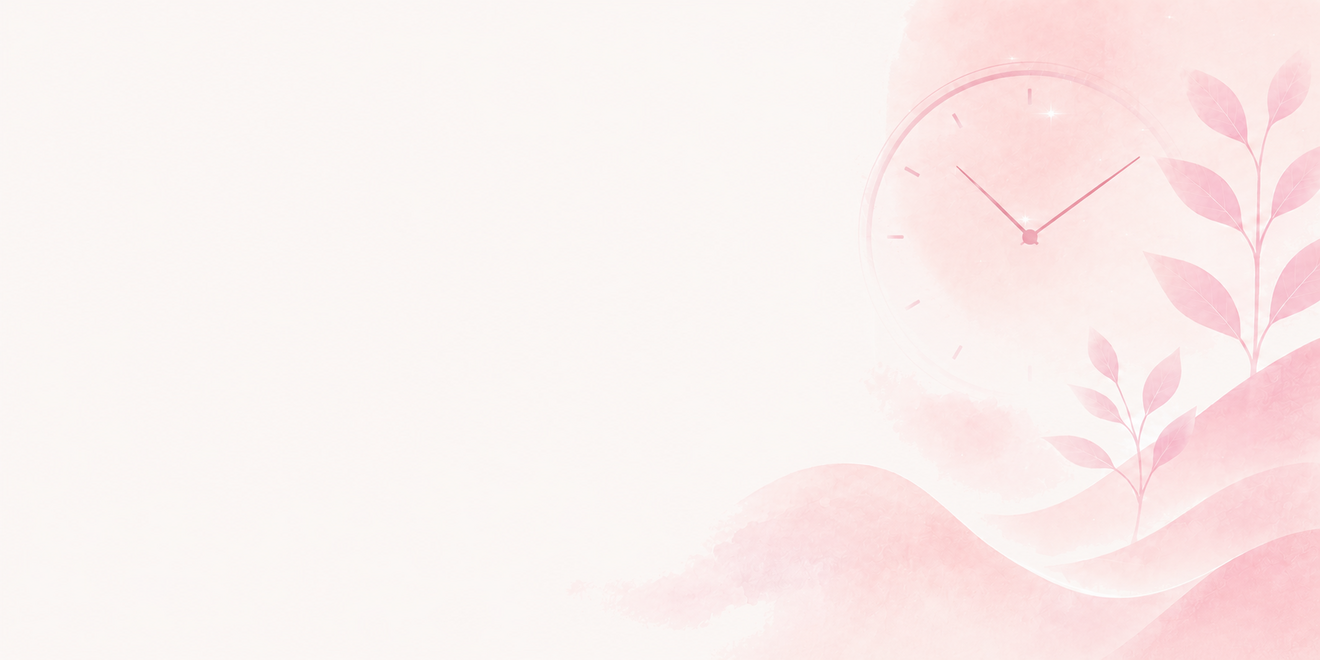
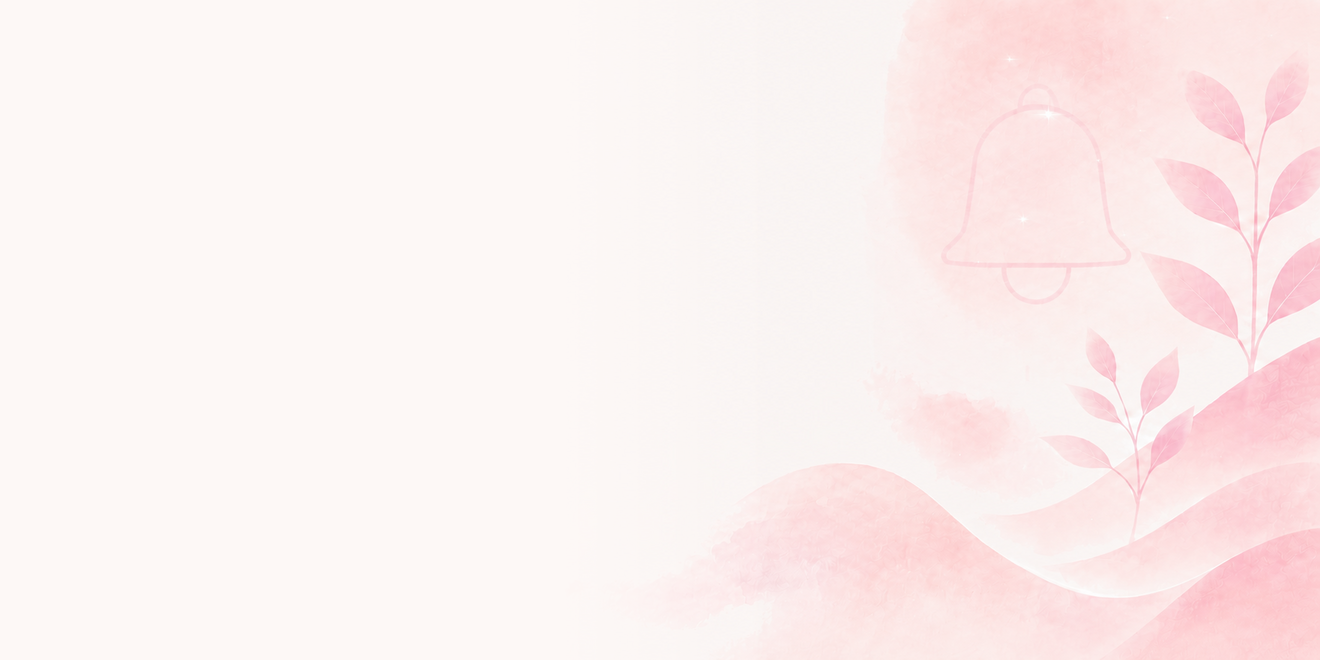
Cabezal propio por apartado y pestaña activa en las subpantallas
Cabezales:
- Cada apartado de Profile estrena el suyo, con el icono de la sección
  dibujado a línea fina dentro de la acuarela: notificación, áreas, voz
  de Aura, idioma, historial, microhábitos, mi ciclo y contraseña.
- Mis áreas deja de usar arte prestado, así que mueren los huérfanos
  (my_circle_hero.jpg, directory_hero.png).
- Apoyo y Mi círculo se quedan con los suyos de antes (teal y rosa, sin
  icono), por decisión del usuario.

Pestaña activa (app_shell):
- La barra comparaba la ruta con igualdad exacta, así que dentro de una
  subpantalla NINGUNA pestaña quedaba encendida y dejaba de decir dónde
  estás. Nuevo mapa ruta -> pestaña: los ajustes mantienen Profile, el
  care mantiene Care y la galaxia mantiene Constelación.

Otros:
- Las opciones de la voz de Aura llevan la acuarela de fondo detrás del
  texto, como las puertas del tab Care (rosa, teal y mixta).
- La promesa al pie de Historial pasa a AuraNote.

diff --git a/lib/features/profile/presentation/screens/message_style_screen.dart b/lib/features/profile/presentation/screens/message_style_screen.dart
@@ -41,7 +41,7 @@ class MessageStyleScreen extends ConsumerWidget {
           padding: EdgeInsets.zero,
           children: [
             SectionHeader(
-              asset: 'assets/images/care/profile_hero.png',
+              asset: 'assets/images/care/voice_hero.png',
               eyebrow: 'HOW AURA SPEAKS TO YOU',
               title: [
                 const TextSpan(text: 'Same warmth, '),
@@ -66,9 +66,10 @@ class MessageStyleScreen extends ConsumerWidget {
                   fontSize: 13.5, height: 1.5, color: AppColors.textSecondary),
             ),
             const SizedBox(height: 20),
-            for (final style in MessageStyle.values) ...[
+            for (final (i, style) in MessageStyle.values.indexed) ...[
               _StyleOption(
                 style: style,
+                leafAsset: _leafAssets[i % _leafAssets.length],
                 selected: data.messageStyle == style,
                 onTap: () => updateMessageStyle(ref, style),
               ),
@@ -97,33 +98,59 @@ class MessageStyleScreen extends ConsumerWidget {
   }
 }
 
+/// Acuarela de fondo por opción, en el orden del enum: rosa para la voz
+/// cálida, teal para la breve y la mixta para la que explica el porqué.
+const _leafAssets = [
+  'assets/images/care/card2.png',
+  'assets/images/care/card1.png',
+  'assets/images/care/card3.png',
+];
+
 class _StyleOption extends StatelessWidget {
   const _StyleOption({
     required this.style,
+    required this.leafAsset,
     required this.selected,
     required this.onTap,
   });
 
   final MessageStyle style;
+  final String leafAsset;
   final bool selected;
   final VoidCallback onTap;
 
   @override
   Widget build(BuildContext context) {
-    return InkWell(
+    return Material(
+      color: selected ? const Color(0xFFFFF8FA) : AppColors.surface,
       borderRadius: BorderRadius.circular(16),
-      onTap: onTap,
-      child: Container(
-        padding: const EdgeInsets.all(14),
-        decoration: BoxDecoration(
-          color: selected ? const Color(0xFFFFF8FA) : AppColors.surface,
-          borderRadius: BorderRadius.circular(16),
-          border: Border.all(
-            color: selected ? AppColors.primary : AppColors.border,
-            width: selected ? 1.5 : 1,
+      clipBehavior: Clip.antiAlias,
+      child: InkWell(
+        onTap: onTap,
+        child: Ink(
+          decoration: BoxDecoration(
+            borderRadius: BorderRadius.circular(16),
+            border: Border.all(
+              color: selected ? AppColors.primary : AppColors.border,
+              width: selected ? 1.5 : 1,
+            ),
           ),
-        ),
-        child: Column(
+          child: Stack(
+            children: [
+              // Hojas al 22% DETRÁS del texto, ancladas a la derecha (mismo
+              // tratamiento que las puertas del tab Care).
+              Positioned.fill(
+                child: Image.asset(
+                  leafAsset,
+                  fit: BoxFit.cover,
+                  alignment: Alignment.topRight,
+                  opacity: const AlwaysStoppedAnimation(0.22),
+                  errorBuilder: (_, _, _) => const SizedBox.shrink(),
+                ),
+              ),
+              Padding(
+                padding: const EdgeInsets.all(14),
+                child: Column(
           crossAxisAlignment: CrossAxisAlignment.start,
           children: [
             Row(
@@ -181,7 +208,11 @@ class _StyleOption extends StatelessWidget {
                 ),
               ),
             ),
-          ],
+                  ],
+                ),
+              ),
+            ],
+          ),
         ),
       ),
     );

diff --git a/lib/features/profile/presentation/screens/history_screen.dart b/lib/features/profile/presentation/screens/history_screen.dart
@@ -7,6 +7,7 @@ import 'package:share_plus/share_plus.dart';
 import '../../../../core/network/dio_client.dart';
 import '../../../../core/router/app_router.dart';
 import '../../../../core/theme/app_colors.dart';
+import '../../../../shared/widgets/aura_note.dart';
 import '../../../../shared/widgets/section_hero.dart';
 import '../../../../core/theme/app_typography.dart';
 import '../../../../shared/domain/enums.dart';
@@ -146,7 +147,7 @@ class _HistoryScreenState extends ConsumerState<HistoryScreen> {
               padding: EdgeInsets.zero,
               children: [
                 SectionHeader(
-                  asset: 'assets/images/care/profile_hero.png',
+                  asset: 'assets/images/care/history_hero.png',
                   eyebrow: 'YOUR STORY',
                   title: [
                     const TextSpan(text: 'Everything you built '),
@@ -191,16 +192,20 @@ class _HistoryScreenState extends ConsumerState<HistoryScreen> {
                     )),
                   ),
                 if (days.isNotEmpty && !more) ...[
-                  const SizedBox(height: 8),
-                  const Center(
-                    child: Text(
-                      'Your whole story stays with you —\nas far back as your first day.',
-                      textAlign: TextAlign.center,
-                      style: TextStyle(
-                          fontSize: 11.5,
-                          height: 1.5,
-                          color: AppColors.textSecondary),
-                    ),
+                  const SizedBox(height: 14),
+                  // La promesa, con la voz de Aura (mismo widget que Care).
+                  const AuraNote(
+                    icon: Text('✦',
+                        style:
+                            TextStyle(fontSize: 17, color: AppColors.primary)),
+                    title: [
+                      TextSpan(text: 'Your whole story '),
+                      TextSpan(
+                          text: 'stays with you',
+                          style: TextStyle(color: AppColors.secondary)),
+                      TextSpan(text: '.'),
+                    ],
+                    subtitle: 'As far back as your first day.',
                   ),
                 ],
                 if (days.isNotEmpty) ...[

diff --git a/lib/shared/widgets/app_shell.dart b/lib/shared/widgets/app_shell.dart
@@ -69,9 +69,41 @@ class _AppShellState extends ConsumerState<AppShell> {
     ),
   ];
 
+  /// A qué pestaña PERTENECE cada subpantalla. Sin esto, al entrar en Ajustes
+  /// (notificaciones, idioma, historial…) la comparación exacta no encontraba
+  /// pestaña y la barra se quedaba entera en gris: dejaba de decir dónde estás.
+  ///
+  /// Las rutas compartidas (círculo, directorio, chat) se asignan a Care, que
+  /// es su casa: también se llega desde Profile, pero la barra solo puede
+  /// marcar una.
+  static const _tabOfRoute = <String, String>{
+    // Constelación
+    AppRoutes.galaxy: AppRoutes.constellation,
+    // Profile · ajustes
+    AppRoutes.notification: AppRoutes.profile,
+    AppRoutes.areas: AppRoutes.profile,
+    AppRoutes.areaGestures: AppRoutes.profile,
+    AppRoutes.messageStyle: AppRoutes.profile,
+    AppRoutes.language: AppRoutes.profile,
+    AppRoutes.history: AppRoutes.profile,
+    AppRoutes.historyDay: AppRoutes.profile,
+    AppRoutes.habits: AppRoutes.profile,
+    AppRoutes.habitCreate: AppRoutes.profile,
+    AppRoutes.changePassword: AppRoutes.profile,
+    AppRoutes.cycle: AppRoutes.profile,
+    // Care
+    AppRoutes.care: AppRoutes.support,
+    AppRoutes.careConsent: AppRoutes.support,
+    AppRoutes.careRequest: AppRoutes.support,
+    AppRoutes.supportCircle: AppRoutes.support,
+    AppRoutes.companion: AppRoutes.support,
+  };
+
   @override
   Widget build(BuildContext context) {
-    final location = GoRouterState.of(context).matchedLocation;
+    final matched = GoRouterState.of(context).matchedLocation;
+    // La subpantalla mantiene encendida la pestaña a la que pertenece.
+    final location = _tabOfRoute[matched] ?? matched;
 
     Widget item(
         ({

diff --git a/lib/features/profile/presentation/screens/areas_screen.dart b/lib/features/profile/presentation/screens/areas_screen.dart
@@ -120,7 +120,7 @@ class _AreasScreenState extends ConsumerState<AreasScreen> {
             // Cabecera ESTÁNDAR (220dp), misma acuarela y papel que
             // Notificaciones.
             SectionHero(
-              asset: 'assets/images/care/my_circle_hero.jpg',
+              asset: 'assets/images/care/areas_hero.png',
               child: Padding(
                 padding: const EdgeInsets.fromLTRB(20, 0, 24, 0),
                 child: Column(

diff --git a/lib/features/profile/presentation/screens/habits_catalog_screen.dart b/lib/features/profile/presentation/screens/habits_catalog_screen.dart
@@ -121,7 +121,7 @@ class _HabitsCatalogScreenState extends ConsumerState<HabitsCatalogScreen> {
             padding: EdgeInsets.zero,
             children: [
               SectionHeader(
-                asset: 'assets/images/care/profile_hero.png',
+                asset: 'assets/images/care/habits_hero.png',
                 eyebrow: 'ALL MICROHABITS',
                 title: [
                   const TextSpan(text: 'Small gestures, '),

diff --git a/lib/features/profile/presentation/screens/change_password_screen.dart b/lib/features/profile/presentation/screens/change_password_screen.dart
@@ -99,7 +99,7 @@ class _ChangePasswordScreenState extends ConsumerState<ChangePasswordScreen> {
           padding: EdgeInsets.zero,
           children: [
             SectionHeader(
-              asset: 'assets/images/care/profile_hero.png',
+              asset: 'assets/images/care/password_hero.png',
               eyebrow: 'CHANGE PASSWORD',
               title: [
                 const TextSpan(text: 'A '),

diff --git a/lib/features/profile/presentation/screens/language_screen.dart b/lib/features/profile/presentation/screens/language_screen.dart
@@ -46,7 +46,7 @@ class LanguageScreen extends ConsumerWidget {
           padding: EdgeInsets.zero,
           children: [
             SectionHeader(
-              asset: 'assets/images/care/profile_hero.png',
+              asset: 'assets/images/care/language_hero.png',
               eyebrow: 'LANGUAGE',
               title: [
                 const TextSpan(text: 'The language '),

diff --git a/lib/features/care/presentation/screens/care_screen.dart b/lib/features/care/presentation/screens/care_screen.dart
@@ -194,7 +194,7 @@ class _DirectoryViewState extends ConsumerState<_DirectoryView> {
           color: AppColors.primary,
         );
     return SectionHero(
-      asset: 'assets/images/care/directory_hero_v2.png',
+      asset: 'assets/images/care/support_hero.png',
       child: Padding(
               padding: const EdgeInsets.fromLTRB(8, 0, 20, 0),
               child: Column(

diff --git a/lib/features/cycle/presentation/screens/cycle_screen.dart b/lib/features/cycle/presentation/screens/cycle_screen.dart
@@ -134,7 +134,7 @@ class _CycleScreenState extends ConsumerState<CycleScreen> {
       padding: EdgeInsets.zero,
       children: [
         SectionHeader(
-          asset: 'assets/images/care/profile_hero.png',
+          asset: 'assets/images/care/cycle_hero.png',
           eyebrow: 'MY CYCLE',
           title: [
             const TextSpan(text: 'If you want, '),
